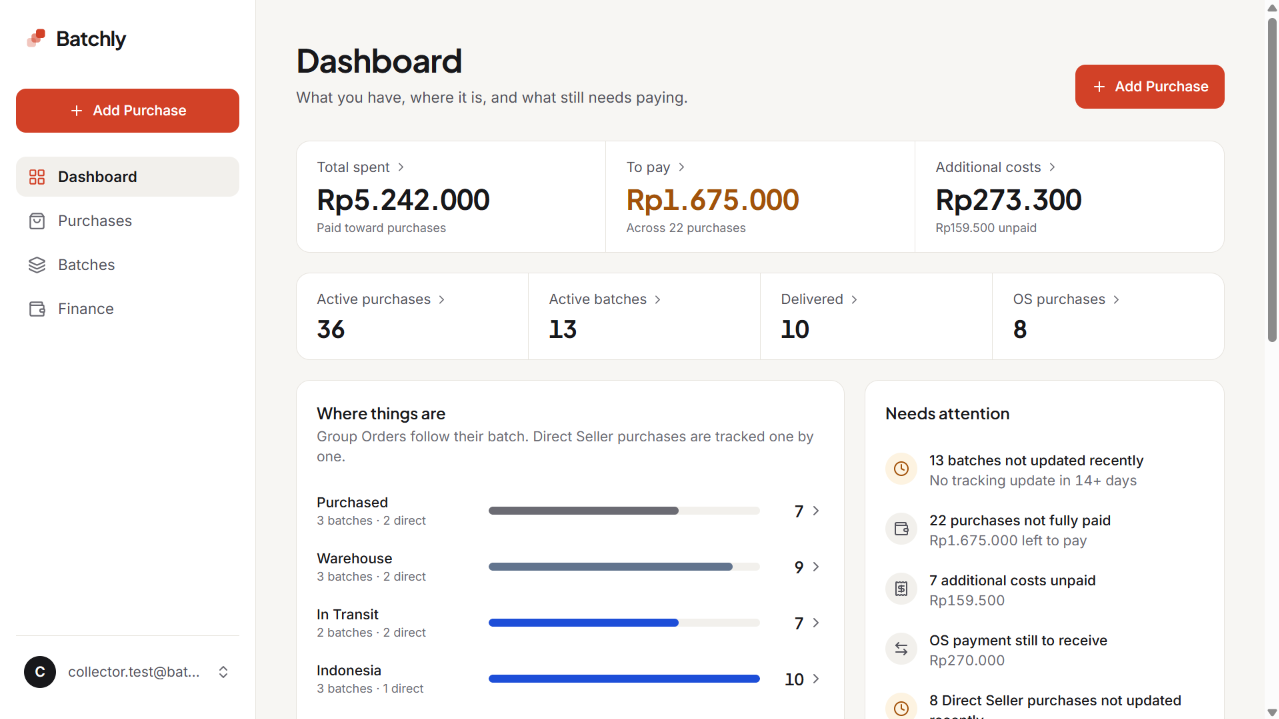
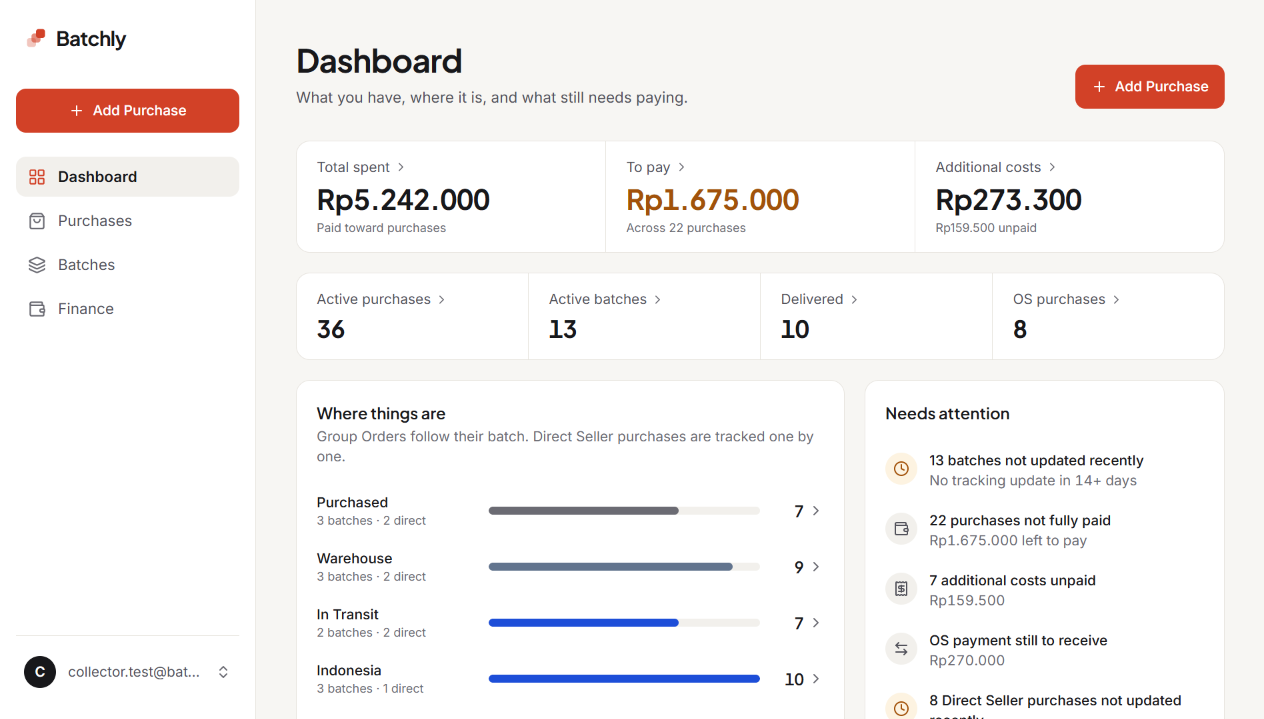
fix: refine public landing page visuals

diff --git a/src/features/landing/landing-hero.tsx b/src/features/landing/landing-hero.tsx
@@ -1,28 +1,25 @@
 import { ArrowRight } from "lucide-react";
 import { ButtonLink } from "@/components/ui/button";
 import { Container } from "./container";
+import { HeroBackdrop } from "./hero-backdrop";
 import { ProductPreview } from "./product-preview";
 
-/** Public hero: headline, description, primary actions, product preview. */
+/** Public hero: editorial overline, headline, actions, product preview. */
 export function LandingHero() {
   return (
-    <section className="relative overflow-hidden pt-16 pb-16 sm:pt-24 sm:pb-20">
-      <div
-        aria-hidden="true"
-        className="pointer-events-none absolute inset-0 -z-10"
-        style={{
-          backgroundImage:
-            "radial-gradient(70% 60% at 50% -10%, var(--color-accent-soft), transparent 70%)",
-        }}
-      />
+    <section className="relative isolate overflow-hidden pt-14 pb-16 sm:pt-20 sm:pb-20">
+      <HeroBackdrop />
 
       <Container className="flex flex-col items-center text-center">
-        <span className="inline-flex items-center gap-2 rounded-full border border-line bg-surface px-3.5 py-1.5 text-sm font-medium text-ink-2">
-          <span className="size-1.5 rounded-full bg-accent" aria-hidden="true" />
-          A simple home for your collection
-        </span>
+        <p className="flex items-center gap-3 text-[13px] font-medium tracking-[0.16em] text-ink-3 uppercase">
+          <span
+            className="h-px w-6 bg-accent"
+            aria-hidden="true"
+          />
+          Group orders &amp; direct sellers
+        </p>
 
-        <h1 className="mt-6 max-w-3xl font-display text-[36px] leading-[1.05] font-bold tracking-[-0.03em] text-balance text-ink sm:text-[56px] lg:text-[64px]">
+        <h1 className="mt-5 max-w-3xl font-display text-[36px] leading-[1.05] font-bold tracking-[-0.03em] text-balance text-ink sm:text-[56px] lg:text-[64px]">
           Your collection, organized.
         </h1>
 

diff --git a/src/features/landing/landing-how-it-works.tsx b/src/features/landing/landing-how-it-works.tsx
@@ -11,22 +11,26 @@ export function LandingHowItWorks() {
   return (
     <section className="pb-16 sm:pb-20">
       <Container>
-        <h2 className="font-display text-2xl font-bold tracking-[-0.02em] text-ink sm:text-[28px]">
-          How it works
-        </h2>
-        <ol className="mt-6 grid gap-4 sm:grid-cols-3">
-          {STEPS.map((step, index) => (
-            <li
-              key={step}
-              className="rounded-[var(--radius-card)] border border-line bg-surface p-5 sm:p-6"
-            >
-              <span className="tabular grid size-8 place-items-center rounded-full bg-surface-2 font-display text-sm font-bold text-ink">
-                {index + 1}
-              </span>
-              <p className="mt-4 text-[15px] leading-relaxed text-ink-2">{step}</p>
-            </li>
-          ))}
-        </ol>
+        <div className="border-t border-line pt-12 sm:pt-16">
+          <p className="flex items-center gap-3 text-[13px] font-medium tracking-[0.16em] text-ink-3 uppercase">
+            <span className="h-px w-6 bg-accent" aria-hidden="true" />
+            How it works
+          </p>
+
+          <ol className="mt-8 grid gap-4 sm:grid-cols-3 sm:gap-5">
+            {STEPS.map((step, index) => (
+              <li
+                key={step}
+                className="flex flex-col rounded-[var(--radius-card)] border border-line bg-surface p-6 shadow-[0_1px_2px_rgb(24_24_27_/_0.04)]"
+              >
+                <span className="tabular grid size-9 place-items-center rounded-full bg-accent-soft font-display text-sm font-bold text-accent-ink">
+                  {index + 1}
+                </span>
+                <p className="mt-5 text-[15px] leading-relaxed text-ink-2">{step}</p>
+              </li>
+            ))}
+          </ol>
+        </div>
       </Container>
     </section>
   );

diff --git a/src/features/landing/product-preview.tsx b/src/features/landing/product-preview.tsx
@@ -12,24 +12,24 @@ export function ProductPreview({ className }: { className?: string }) {
     <div className={cn("relative isolate", className)}>
       <div
         aria-hidden="true"
-        className="pointer-events-none absolute inset-x-0 -top-10 bottom-0 -z-10"
+        className="pointer-events-none absolute inset-x-6 -top-12 bottom-2 -z-10 rounded-[var(--radius-sheet)]"
         style={{
           backgroundImage:
-            "radial-gradient(60% 55% at 50% 0%, var(--color-accent-soft), transparent 75%)",
+            "radial-gradient(58% 60% at 50% 0%, var(--color-accent-soft), transparent 72%)",
         }}
       />
 
-      <div className="overflow-hidden rounded-[var(--radius-sheet)] border border-line bg-surface shadow-[var(--shadow-float)]">
+      <div className="overflow-hidden rounded-[var(--radius-sheet)] border border-line bg-surface shadow-[var(--shadow-preview)]">
         <div className="flex items-center gap-2 border-b border-line bg-surface-2/60 px-4 py-3">
-          <span className="size-2.5 rounded-full bg-line-strong" />
-          <span className="size-2.5 rounded-full bg-line-strong" />
-          <span className="size-2.5 rounded-full bg-line-strong" />
+          <span className="size-2.5 rounded-full bg-line-strong" aria-hidden="true" />
+          <span className="size-2.5 rounded-full bg-line-strong" aria-hidden="true" />
+          <span className="size-2.5 rounded-full bg-line-strong" aria-hidden="true" />
         </div>
 
         <Image
           src="/batchly-dashboard.png"
           alt="The Batchly dashboard showing spending totals, where purchases are, and which ones need attention."
-          width={1279}
+          width={1264}
           height={719}
           priority
           sizes="(min-width: 1024px) 1088px, (min-width: 640px) calc(100vw - 48px), calc(100vw - 32px)"

diff --git a/src/features/landing/hero-backdrop.tsx b/src/features/landing/hero-backdrop.tsx
@@ -1,0 +1,49 @@
+/**
+ * Ambient backdrop for the public hero.
+ *
+ * Purely decorative: a faint grid that fades out toward the edges, a soft
+ * coral glow behind the headline, and a bottom fade into the page canvas so
+ * the preview reads as part of one continuous surface. All layers are
+ * `aria-hidden` and never intercept pointer events.
+ */
+export function HeroBackdrop() {
+  return (
+    <div
+      aria-hidden="true"
+      className="pointer-events-none absolute inset-0 -z-10 overflow-hidden"
+    >
+      {/* Faint structural grid, masked so it dissolves before the edges. */}
+      <div
+        className="absolute inset-0"
+        style={{
+          backgroundImage:
+            "linear-gradient(to right, var(--color-line) 1px, transparent 1px), linear-gradient(to bottom, var(--color-line) 1px, transparent 1px)",
+          backgroundSize: "56px 56px",
+          maskImage:
+            "radial-gradient(80% 60% at 50% 0%, #000 0%, transparent 78%)",
+          WebkitMaskImage:
+            "radial-gradient(80% 60% at 50% 0%, #000 0%, transparent 78%)",
+          opacity: 0.6,
+        }}
+      />
+
+      {/* Restrained coral ambient light behind the headline. */}
+      <div
+        className="absolute inset-x-0 -top-24 h-[520px]"
+        style={{
+          backgroundImage:
+            "radial-gradient(52% 60% at 50% 30%, var(--color-accent-soft), transparent 72%)",
+        }}
+      />
+
+      {/* Bottom fade into the canvas for a calm transition to the preview. */}
+      <div
+        className="absolute inset-x-0 bottom-0 h-40"
+        style={{
+          backgroundImage:
+            "linear-gradient(to bottom, transparent, var(--color-canvas))",
+        }}
+      />
+    </div>
+  );
+}

diff --git a/src/features/landing/landing-features.tsx b/src/features/landing/landing-features.tsx
@@ -24,19 +24,19 @@ export function LandingFeatures() {
   return (
     <section className="pb-16 sm:pb-20">
       <Container>
-        <ul className="grid gap-4 sm:grid-cols-3">
+        <ul className="grid gap-4 sm:grid-cols-3 sm:gap-5">
           {FEATURES.map(({ icon: Icon, title, description }) => (
             <li
               key={title}
-              className="rounded-[var(--radius-card)] border border-line bg-surface p-5 sm:p-6"
+              className="flex flex-col rounded-[var(--radius-card)] border border-line bg-surface p-6 shadow-[0_1px_2px_rgb(24_24_27_/_0.04)] transition-shadow duration-200 hover:shadow-[var(--shadow-float)]"
             >
-              <span className="grid size-10 place-items-center rounded-[var(--radius-control)] bg-accent-soft text-accent-ink">
-                <Icon className="size-5" aria-hidden="true" />
+              <span className="grid size-11 place-items-center rounded-[var(--radius-control)] bg-accent-soft text-accent-ink">
+                <Icon className="size-[22px]" strokeWidth={1.9} aria-hidden="true" />
               </span>
-              <h3 className="mt-4 font-display text-base font-semibold text-ink">
+              <h3 className="mt-5 font-display text-base font-semibold tracking-[-0.01em] text-ink">
                 {title}
               </h3>
-              <p className="mt-1.5 text-sm leading-relaxed text-ink-2">{description}</p>
+              <p className="mt-2 text-sm leading-relaxed text-ink-2">{description}</p>
             </li>
           ))}
         </ul>

diff --git a/src/features/landing/landing-cta.tsx b/src/features/landing/landing-cta.tsx
@@ -7,8 +7,17 @@ export function LandingCta() {
   return (
     <section className="pb-20 sm:pb-28">
       <Container>
-        <div className="flex flex-col items-center rounded-[var(--radius-sheet)] border border-line bg-surface px-6 py-12 text-center sm:px-10 sm:py-16">
-          <h2 className="max-w-xl font-display text-2xl font-bold tracking-[-0.02em] text-balance text-ink sm:text-[32px]">
+        <div className="relative isolate overflow-hidden rounded-[var(--radius-sheet)] border border-line bg-surface px-6 py-14 text-center sm:px-10 sm:py-16">
+          <div
+            aria-hidden="true"
+            className="pointer-events-none absolute inset-x-0 -top-24 -z-10 h-64"
+            style={{
+              backgroundImage:
+                "radial-gradient(50% 60% at 50% 0%, var(--color-accent-soft), transparent 72%)",
+            }}
+          />
+
+          <h2 className="mx-auto max-w-xl font-display text-2xl font-bold tracking-[-0.02em] text-balance text-ink sm:text-[32px]">
             Ready to organize your collection?
           </h2>
           <ButtonLink href="/signup" size="md" className="mt-7">

diff --git a/src/app/globals.css b/src/app/globals.css
@@ -45,6 +45,8 @@
 
   --shadow-float: 0 8px 24px -8px rgb(24 24 27 / 0.18), 0 2px 6px -2px rgb(24 24 27 / 0.08);
   --shadow-modal: 0 24px 64px -16px rgb(24 24 27 / 0.32);
+  --shadow-preview:
+    0 32px 64px -28px rgb(24 24 27 / 0.26), 0 12px 26px -14px rgb(24 24 27 / 0.12);
 }
 
 @layer base {
